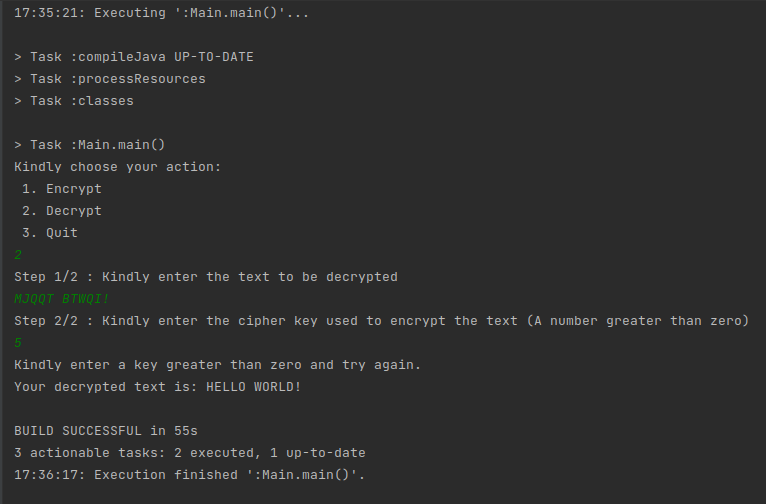
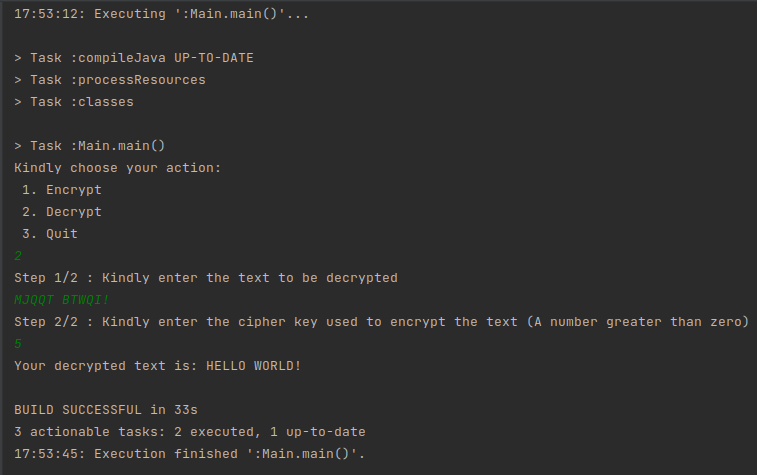
Resolved validation errors when checking inputs

diff --git a/src/main/java/org/example/Main.java b/src/main/java/org/example/Main.java
@@ -18,13 +18,15 @@ public class Main {
             String plainText = scanner.nextLine().toUpperCase();
             if(plainText.isEmpty()) {
                 System.out.println("You have not entered any text to be encrypted. kindly try again");
+                System.exit(0);
             }
 
             // get key
             System.out.println("Step 2/2 : Kindly choose a key to cipher the text (A number greater than zero)");
             int encryptKey = scanner.nextInt();
-            if(encryptKey > 1) {
+            if(encryptKey < 1) {
                 System.out.println("Kindly enter a key greater than zero and try again.");
+                System.exit(0);
             }
 
             // encrypt
@@ -37,13 +39,15 @@ public class Main {
             String encryptedText = scanner.nextLine().toUpperCase();
             if(encryptedText.isEmpty()) {
                 System.out.println("You have not entered any text to be decrypted. kindly try again");
+                System.exit(0);
             }
 
             // get key
             System.out.println("Step 2/2 : Kindly enter the cipher key used to encrypt the text (A number greater than zero)");
             int decryptKey = scanner.nextInt();
-            if(decryptKey > 1) {
+            if(decryptKey < 1) {
                 System.out.println("Kindly enter a key greater than zero and try again.");
+                System.exit(0);
             }
 
             // decrypt

diff --git a/readme.md b/readme.md
@@ -12,6 +12,14 @@ Follow the following setup instructions to run the program.
 * To run the program in the terminal you can use 'gradle run' command
 * To run the unit tests, use 'gradle run' command
 
+## Screenshots
+
+### Encrypt
+![screenshot showing the encrypt process](https://raw.githubusercontent.com/pkariithi/Command-Line-Caesar-Cipher/main/src/main/resources/encrypt.png)
+
+### Decrypt
+![screenshot showing the decrypt process](https://raw.githubusercontent.com/pkariithi/Command-Line-Caesar-Cipher/main/src/main/resources/decrypt.png)
+
 ## B.D.D
 
 | BEHAVIOUR               | INPUT                  | OUTPUT                      |
